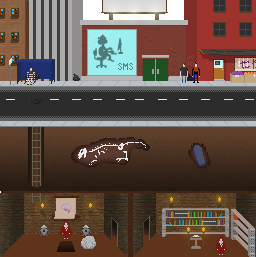
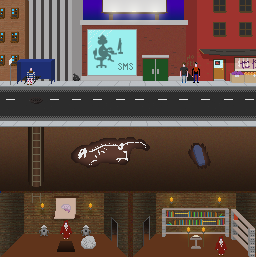
changed from canvas to img

Changed region(s): [[0.3125, 0.0, 0.7188, 0.0934]]

diff --git a/index.html b/index.html
@@ -48,8 +48,8 @@
 <!--Hero-->
 <div class="parallax-container section no-pad-bot">
     <div class="parallax">
-        <canvas style="display:block" id="bg">
-        </canvas>
+        <!--<canvas style="display:block" id="bg"></canvas>-->
+        <img src="img/bg.png">
     </div>
     <!--
     <div class="container">
